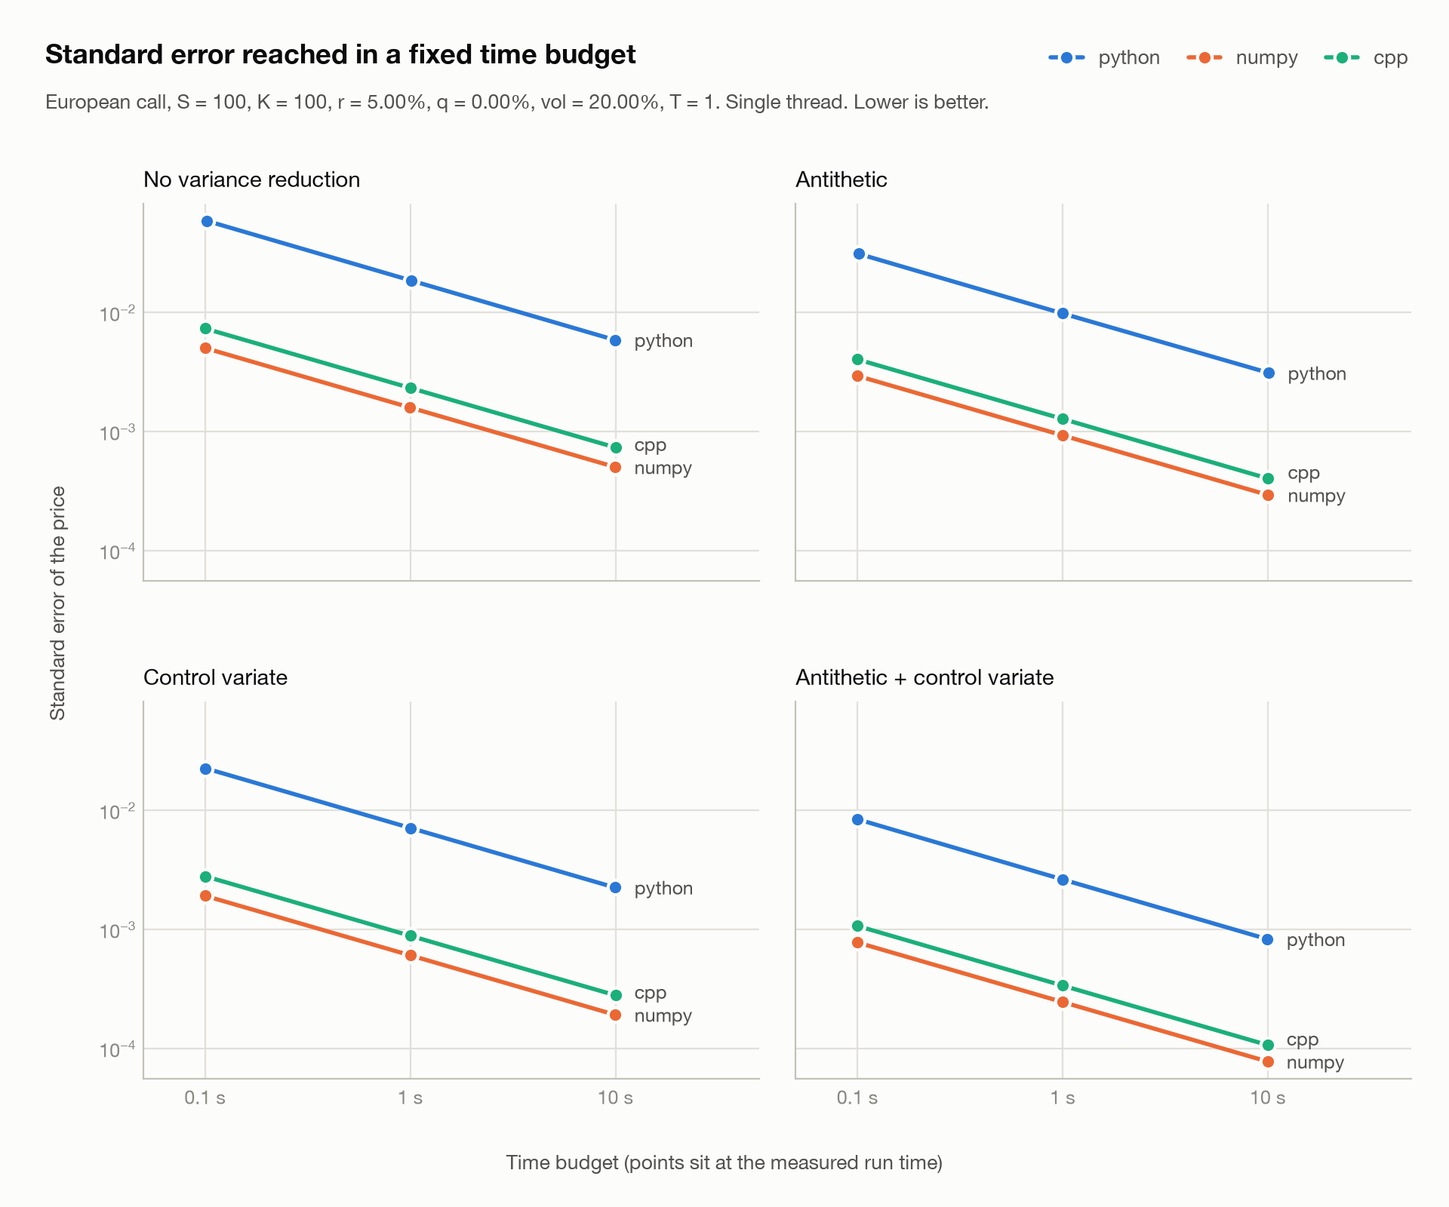
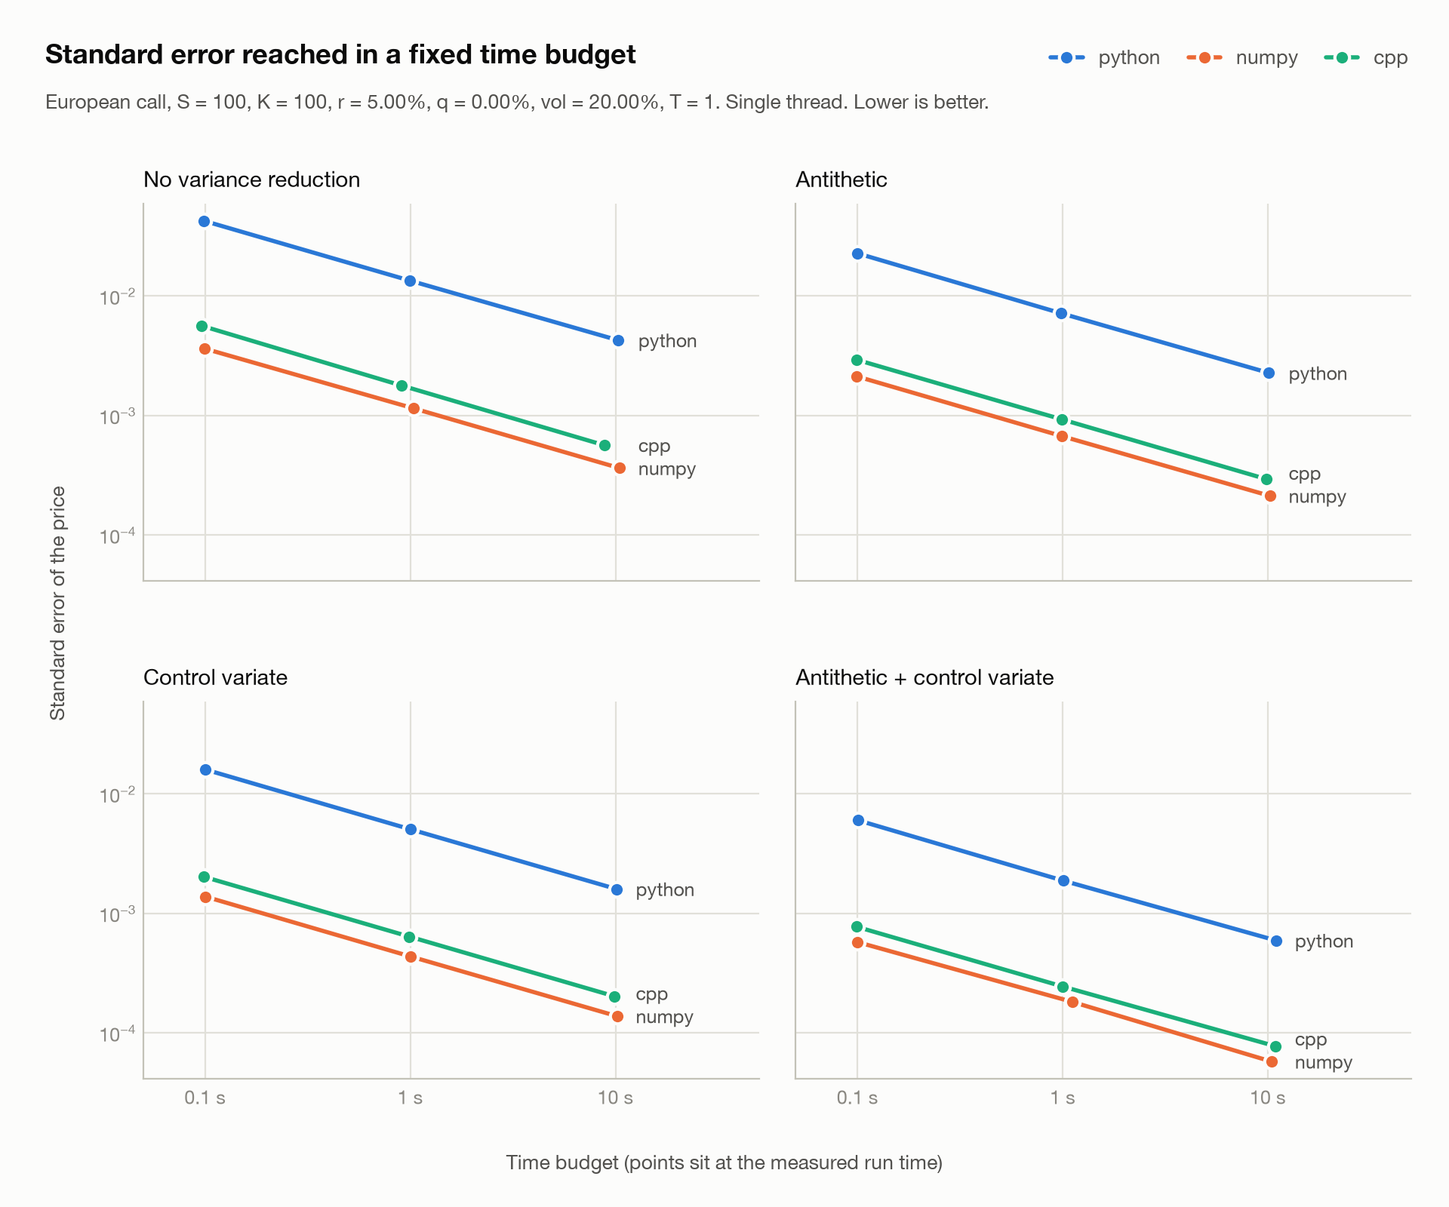
Re-record the back-end comparison with Low Power Mode off.
Same command as before, at commit 2e9dde2, on battery with Low Power Mode off.
Absolute speeds are about twice the Low Power Mode figures; the ratios between
back ends are unchanged. At 10^7 paths C++ is 64.2x faster than pure Python
and 0.47x the speed of NumPy. Another program was active on the machine during
the run, so some time-budget runs landed up to 12% off their budget; the
report shows the measured time of each.

diff --git a/benchmarks/RESULTS.md b/benchmarks/RESULTS.md
@@ -8,7 +8,7 @@ Every number in this file was measured on the machine described below by the com
 python -m derivkit compare --paths 1e5 1e6 1e7 --vr all --budgets 0.1 1 10 --report benchmarks/RESULTS.md --plot benchmarks/accuracy_vs_time.png
 ```
 
-Run finished 2026-10-04 22:23 BST. The environment below was recorded when the run started.
+Run finished 2026-10-04 23:34 BST. The environment below was recorded when the run started.
 
 | Item | Value |
 | --- | --- |
@@ -18,8 +18,8 @@ Run finished 2026-10-04 22:23 BST. The environment below was recorded when the r
 | NumPy | 2.5.3 (generator PCG64, BLAS accelerate) |
 | C++ compiler | Apple clang 21.0.0 (clang-2100.1.1.101) |
 | C++ build | Release, flags `-O3 -DNDEBUG -std=c++20 -ffp-contract=off`, pybind11 3.1.0 |
-| Power | battery, Low Power Mode on |
-| derivkit | 2.0.0 (commit 61f073a) |
+| Power | battery, Low Power Mode off |
+| derivkit | 2.0.0 (commit 2e9dde2) |
 
 ## What was priced
 
@@ -43,76 +43,76 @@ European call, S = 100, K = 100, r = 5.00%, q = 0.00%, vol = 20.00%, T = 1. Blac
 
 | Variance reduction | Time budget | python | numpy | cpp |
 | --- | --- | ---: | ---: | ---: |
-| No variance reduction | 0.1 s | 5.87 x 10^-2 | 5.02 x 10^-3 | 7.32 x 10^-3 |
-| No variance reduction | 1 s | 1.85 x 10^-2 | 1.59 x 10^-3 | 2.32 x 10^-3 |
-| No variance reduction | 10 s | 5.87 x 10^-3 | 5.02 x 10^-4 | 7.32 x 10^-4 |
-| Antithetic | 0.1 s | 3.10 x 10^-2 | 2.93 x 10^-3 | 4.03 x 10^-3 |
-| Antithetic | 1 s | 9.80 x 10^-3 | 9.25 x 10^-4 | 1.27 x 10^-3 |
-| Antithetic | 10 s | 3.10 x 10^-3 | 2.93 x 10^-4 | 4.03 x 10^-4 |
-| Control variate | 0.1 s | 2.25 x 10^-2 | 1.91 x 10^-3 | 2.79 x 10^-3 |
-| Control variate | 1 s | 7.09 x 10^-3 | 6.05 x 10^-4 | 8.82 x 10^-4 |
-| Control variate | 10 s | 2.24 x 10^-3 | 1.91 x 10^-4 | 2.79 x 10^-4 |
-| Antithetic + control variate | 0.1 s | 8.39 x 10^-3 | 7.74 x 10^-4 | 1.07 x 10^-3 |
-| Antithetic + control variate | 1 s | 2.62 x 10^-3 | 2.45 x 10^-4 | 3.37 x 10^-4 |
-| Antithetic + control variate | 10 s | 8.27 x 10^-4 | 7.74 x 10^-5 | 1.06 x 10^-4 |
+| No variance reduction | 0.1 s | 4.24 x 10^-2 | 3.62 x 10^-3 | 5.62 x 10^-3 |
+| No variance reduction | 1 s | 1.34 x 10^-2 | 1.14 x 10^-3 | 1.78 x 10^-3 |
+| No variance reduction | 10 s | 4.25 x 10^-3 | 3.62 x 10^-4 | 5.62 x 10^-4 |
+| Antithetic | 0.1 s | 2.27 x 10^-2 | 2.12 x 10^-3 | 2.92 x 10^-3 |
+| Antithetic | 1 s | 7.15 x 10^-3 | 6.70 x 10^-4 | 9.24 x 10^-4 |
+| Antithetic | 10 s | 2.26 x 10^-3 | 2.12 x 10^-4 | 2.92 x 10^-4 |
+| Control variate | 0.1 s | 1.60 x 10^-2 | 1.37 x 10^-3 | 2.02 x 10^-3 |
+| Control variate | 1 s | 5.04 x 10^-3 | 4.35 x 10^-4 | 6.38 x 10^-4 |
+| Control variate | 10 s | 1.59 x 10^-3 | 1.37 x 10^-4 | 2.02 x 10^-4 |
+| Antithetic + control variate | 0.1 s | 6.00 x 10^-3 | 5.73 x 10^-4 | 7.71 x 10^-4 |
+| Antithetic + control variate | 1 s | 1.87 x 10^-3 | 1.81 x 10^-4 | 2.44 x 10^-4 |
+| Antithetic + control variate | 10 s | 5.91 x 10^-4 | 5.73 x 10^-5 | 7.70 x 10^-5 |
 
 **Detail of each budget run**
 
 | Variance reduction | Time budget | Back end | Paths | Measured time (s) | Price | Std. error | Abs. error vs BS |
 | --- | --- | --- | ---: | ---: | ---: | ---: | ---: |
-| No variance reduction | 0.1 s | python | 62,995 | 0.1017 | 10.412257 | 5.87 x 10^-2 | 3.83 x 10^-2 |
-| No variance reduction | 0.1 s | numpy | 8,613,520 | 0.09989 | 10.455337 | 5.02 x 10^-3 | 4.75 x 10^-3 |
-| No variance reduction | 0.1 s | cpp | 4,039,782 | 0.09977 | 10.451177 | 7.32 x 10^-3 | 5.93 x 10^-4 |
-| No variance reduction | 1 s | python | 629,952 | 1.007 | 10.441908 | 1.85 x 10^-2 | 8.68 x 10^-3 |
-| No variance reduction | 1 s | numpy | 86,135,209 | 0.9983 | 10.452254 | 1.59 x 10^-3 | 1.67 x 10^-3 |
-| No variance reduction | 1 s | cpp | 40,397,820 | 1.001 | 10.446760 | 2.32 x 10^-3 | 3.82 x 10^-3 |
-| No variance reduction | 10 s | python | 6,299,527 | 9.919 | 10.454535 | 5.87 x 10^-3 | 3.95 x 10^-3 |
-| No variance reduction | 10 s | numpy | 861,352,093 | 9.982 | 10.450510 | 5.02 x 10^-4 | 7.34 x 10^-5 |
-| No variance reduction | 10 s | cpp | 403,978,204 | 10.01 | 10.449696 | 7.32 x 10^-4 | 8.87 x 10^-4 |
-| Antithetic | 0.1 s | python | 56,413 | 0.1013 | 10.401623 | 3.10 x 10^-2 | 4.90 x 10^-2 |
-| Antithetic | 0.1 s | numpy | 6,318,333 | 0.1001 | 10.445998 | 2.93 x 10^-3 | 4.59 x 10^-3 |
-| Antithetic | 0.1 s | cpp | 3,330,337 | 0.09962 | 10.449060 | 4.03 x 10^-3 | 1.52 x 10^-3 |
-| Antithetic | 1 s | python | 564,132 | 0.996 | 10.453937 | 9.80 x 10^-3 | 3.35 x 10^-3 |
-| Antithetic | 1 s | numpy | 63,183,336 | 1.001 | 10.450411 | 9.25 x 10^-4 | 1.72 x 10^-4 |
-| Antithetic | 1 s | cpp | 33,303,376 | 0.9967 | 10.450877 | 1.27 x 10^-3 | 2.94 x 10^-4 |
-| Antithetic | 10 s | python | 5,641,323 | 10.13 | 10.449242 | 3.10 x 10^-3 | 1.34 x 10^-3 |
-| Antithetic | 10 s | numpy | 631,833,360 | 9.999 | 10.450834 | 2.93 x 10^-4 | 2.50 x 10^-4 |
-| Antithetic | 10 s | cpp | 333,033,769 | 9.968 | 10.450676 | 4.03 x 10^-4 | 9.28 x 10^-5 |
-| Control variate | 0.1 s | python | 62,559 | 0.1006 | 10.423432 | 2.25 x 10^-2 | 2.72 x 10^-2 |
-| Control variate | 0.1 s | numpy | 8,612,514 | 0.09988 | 10.447197 | 1.91 x 10^-3 | 3.39 x 10^-3 |
-| Control variate | 0.1 s | cpp | 4,048,441 | 0.09998 | 10.448218 | 2.79 x 10^-3 | 2.37 x 10^-3 |
-| Control variate | 1 s | python | 625,590 | 1.002 | 10.447822 | 7.09 x 10^-3 | 2.76 x 10^-3 |
-| Control variate | 1 s | numpy | 86,125,143 | 0.9986 | 10.450661 | 6.05 x 10^-4 | 7.70 x 10^-5 |
-| Control variate | 1 s | cpp | 40,484,419 | 1 | 10.450992 | 8.82 x 10^-4 | 4.08 x 10^-4 |
-| Control variate | 10 s | python | 6,255,900 | 9.923 | 10.449588 | 2.24 x 10^-3 | 9.96 x 10^-4 |
-| Control variate | 10 s | numpy | 861,251,437 | 9.986 | 10.450727 | 1.91 x 10^-4 | 1.44 x 10^-4 |
-| Control variate | 10 s | cpp | 404,844,195 | 10.02 | 10.450590 | 2.79 x 10^-4 | 6.62 x 10^-6 |
-| Antithetic + control variate | 0.1 s | python | 55,337 | 0.1001 | 10.433109 | 8.39 x 10^-3 | 1.75 x 10^-2 |
-| Antithetic + control variate | 0.1 s | numpy | 6,314,150 | 0.1 | 10.449176 | 7.74 x 10^-4 | 1.41 x 10^-3 |
-| Antithetic + control variate | 0.1 s | cpp | 3,334,340 | 0.09998 | 10.448682 | 1.07 x 10^-3 | 1.90 x 10^-3 |
-| Antithetic + control variate | 1 s | python | 553,376 | 0.9972 | 10.449029 | 2.62 x 10^-3 | 1.55 x 10^-3 |
-| Antithetic + control variate | 1 s | numpy | 63,141,508 | 0.9999 | 10.450316 | 2.45 x 10^-4 | 2.67 x 10^-4 |
-| Antithetic + control variate | 1 s | cpp | 33,343,402 | 0.998 | 10.450247 | 3.37 x 10^-4 | 3.37 x 10^-4 |
-| Antithetic + control variate | 10 s | python | 5,533,764 | 9.913 | 10.449138 | 8.27 x 10^-4 | 1.45 x 10^-3 |
-| Antithetic + control variate | 10 s | numpy | 631,415,089 | 9.995 | 10.450552 | 7.74 x 10^-5 | 3.11 x 10^-5 |
-| Antithetic + control variate | 10 s | cpp | 333,434,020 | 9.987 | 10.450508 | 1.06 x 10^-4 | 7.55 x 10^-5 |
+| No variance reduction | 0.1 s | python | 119,948 | 0.0986 | 10.399676 | 4.24 x 10^-2 | 5.09 x 10^-2 |
+| No variance reduction | 0.1 s | numpy | 16,560,119 | 0.09935 | 10.452729 | 3.62 x 10^-3 | 2.15 x 10^-3 |
+| No variance reduction | 0.1 s | cpp | 6,864,302 | 0.09603 | 10.453208 | 5.62 x 10^-3 | 2.62 x 10^-3 |
+| No variance reduction | 1 s | python | 1,199,487 | 0.9906 | 10.448566 | 1.34 x 10^-2 | 2.02 x 10^-3 |
+| No variance reduction | 1 s | numpy | 165,601,193 | 1.037 | 10.452147 | 1.14 x 10^-3 | 1.56 x 10^-3 |
+| No variance reduction | 1 s | cpp | 68,643,022 | 0.9053 | 10.449965 | 1.78 x 10^-3 | 6.19 x 10^-4 |
+| No variance reduction | 10 s | python | 11,994,871 | 10.3 | 10.452493 | 4.25 x 10^-3 | 1.91 x 10^-3 |
+| No variance reduction | 10 s | numpy | 1,656,011,938 | 10.46 | 10.450845 | 3.62 x 10^-4 | 2.62 x 10^-4 |
+| No variance reduction | 10 s | cpp | 686,430,226 | 8.829 | 10.450370 | 5.62 x 10^-4 | 2.14 x 10^-4 |
+| Antithetic | 0.1 s | python | 105,752 | 0.09969 | 10.428816 | 2.27 x 10^-2 | 2.18 x 10^-2 |
+| Antithetic | 0.1 s | numpy | 12,052,982 | 0.09918 | 10.448795 | 2.12 x 10^-3 | 1.79 x 10^-3 |
+| Antithetic | 0.1 s | cpp | 6,334,262 | 0.09865 | 10.450812 | 2.92 x 10^-3 | 2.28 x 10^-4 |
+| Antithetic | 1 s | python | 1,057,529 | 0.9796 | 10.457764 | 7.15 x 10^-3 | 7.18 x 10^-3 |
+| Antithetic | 1 s | numpy | 120,529,828 | 0.99 | 10.451347 | 6.70 x 10^-4 | 7.63 x 10^-4 |
+| Antithetic | 1 s | cpp | 63,342,627 | 0.9919 | 10.451298 | 9.24 x 10^-4 | 7.15 x 10^-4 |
+| Antithetic | 10 s | python | 10,575,298 | 10.13 | 10.452796 | 2.26 x 10^-3 | 2.21 x 10^-3 |
+| Antithetic | 10 s | numpy | 1,205,298,280 | 10.23 | 10.450642 | 2.12 x 10^-4 | 5.82 x 10^-5 |
+| Antithetic | 10 s | cpp | 633,426,274 | 9.857 | 10.450718 | 2.92 x 10^-4 | 1.34 x 10^-4 |
+| Control variate | 0.1 s | python | 124,154 | 0.09978 | 10.438639 | 1.60 x 10^-2 | 1.19 x 10^-2 |
+| Control variate | 0.1 s | numpy | 16,651,407 | 0.1005 | 10.448099 | 1.37 x 10^-3 | 2.48 x 10^-3 |
+| Control variate | 0.1 s | cpp | 7,747,819 | 0.09865 | 10.450824 | 2.02 x 10^-3 | 2.40 x 10^-4 |
+| Control variate | 1 s | python | 1,241,544 | 1.002 | 10.452951 | 5.04 x 10^-3 | 2.37 x 10^-3 |
+| Control variate | 1 s | numpy | 166,514,073 | 1 | 10.450607 | 4.35 x 10^-4 | 2.30 x 10^-5 |
+| Control variate | 1 s | cpp | 77,478,195 | 0.9878 | 10.451389 | 6.38 x 10^-4 | 8.06 x 10^-4 |
+| Control variate | 10 s | python | 12,415,444 | 10.12 | 10.451041 | 1.59 x 10^-3 | 4.57 x 10^-4 |
+| Control variate | 10 s | numpy | 1,665,140,739 | 10.17 | 10.450540 | 1.37 x 10^-4 | 4.40 x 10^-5 |
+| Control variate | 10 s | cpp | 774,781,958 | 9.901 | 10.450738 | 2.02 x 10^-4 | 1.55 x 10^-4 |
+| Antithetic + control variate | 0.1 s | python | 108,361 | 0.1002 | 10.436833 | 6.00 x 10^-3 | 1.38 x 10^-2 |
+| Antithetic + control variate | 0.1 s | numpy | 11,521,644 | 0.09984 | 10.449799 | 5.73 x 10^-4 | 7.84 x 10^-4 |
+| Antithetic + control variate | 0.1 s | cpp | 6,369,427 | 0.09871 | 10.449101 | 7.71 x 10^-4 | 1.48 x 10^-3 |
+| Antithetic + control variate | 1 s | python | 1,083,616 | 1.007 | 10.451598 | 1.87 x 10^-3 | 1.01 x 10^-3 |
+| Antithetic + control variate | 1 s | numpy | 115,216,440 | 1.112 | 10.450443 | 1.81 x 10^-4 | 1.41 x 10^-4 |
+| Antithetic + control variate | 1 s | cpp | 63,694,278 | 0.9987 | 10.450381 | 2.44 x 10^-4 | 2.03 x 10^-4 |
+| Antithetic + control variate | 10 s | python | 10,836,166 | 10.97 | 10.449814 | 5.91 x 10^-4 | 7.70 x 10^-4 |
+| Antithetic + control variate | 10 s | numpy | 1,152,164,404 | 10.44 | 10.450585 | 5.73 x 10^-5 | 1.41 x 10^-6 |
+| Antithetic + control variate | 10 s | cpp | 636,942,788 | 10.89 | 10.450595 | 7.70 x 10^-5 | 1.14 x 10^-5 |
 
 **Calibration behind the budgets**
 
 | Variance reduction | Back end | Calibration paths | Run time, median (s) | min (s) | max (s) | Paths / s |
 | --- | --- | ---: | ---: | ---: | ---: | ---: |
-| No variance reduction | python | 126,347 | 0.2006 | 0.1983 | 0.2115 | 0.63 M |
-| No variance reduction | numpy | 7,712,701 | 0.08954 | 0.08934 | 0.08968 | 86.14 M |
-| No variance reduction | cpp | 7,265,580 | 0.1799 | 0.1794 | 0.1803 | 40.40 M |
-| Antithetic | python | 111,482 | 0.1976 | 0.1968 | 0.1991 | 0.56 M |
-| Antithetic | numpy | 6,875,321 | 0.1088 | 0.1087 | 0.109 | 63.18 M |
-| Antithetic | cpp | 5,896,800 | 0.1771 | 0.1765 | 0.1788 | 33.30 M |
-| Control variate | python | 125,854 | 0.2012 | 0.2003 | 0.2026 | 0.63 M |
-| Control variate | numpy | 8,231,163 | 0.09557 | 0.09522 | 0.09642 | 86.13 M |
-| Control variate | cpp | 6,676,871 | 0.1649 | 0.1649 | 0.1652 | 40.48 M |
-| Antithetic + control variate | python | 107,996 | 0.1952 | 0.1941 | 0.1965 | 0.55 M |
-| Antithetic + control variate | numpy | 6,933,406 | 0.1098 | 0.1097 | 0.1101 | 63.14 M |
-| Antithetic + control variate | cpp | 5,895,722 | 0.1768 | 0.1763 | 0.1772 | 33.34 M |
+| No variance reduction | python | 245,588 | 0.2047 | 0.2004 | 0.2296 | 1.20 M |
+| No variance reduction | numpy | 33,165,924 | 0.2003 | 0.199 | 0.2046 | 165.60 M |
+| No variance reduction | cpp | 9,662,701 | 0.1408 | 0.1355 | 0.1618 | 68.64 M |
+| Antithetic | python | 215,513 | 0.2038 | 0.201 | 0.23 | 1.06 M |
+| Antithetic | numpy | 22,499,313 | 0.1867 | 0.1862 | 0.1878 | 120.53 M |
+| Antithetic | cpp | 11,967,766 | 0.1889 | 0.188 | 0.1917 | 63.34 M |
+| Control variate | python | 246,640 | 0.1987 | 0.1982 | 0.1999 | 1.24 M |
+| Control variate | numpy | 33,265,474 | 0.1998 | 0.1995 | 0.2002 | 166.51 M |
+| Control variate | cpp | 15,173,756 | 0.1958 | 0.1934 | 0.1973 | 77.48 M |
+| Antithetic + control variate | python | 215,584 | 0.1989 | 0.1983 | 0.2018 | 1.08 M |
+| Antithetic + control variate | numpy | 22,574,458 | 0.1959 | 0.1945 | 0.1994 | 115.22 M |
+| Antithetic + control variate | cpp | 12,420,878 | 0.195 | 0.1922 | 0.1971 | 63.69 M |
 
 ## Fixed path counts
 
@@ -120,71 +120,71 @@ European call, S = 100, K = 100, r = 5.00%, q = 0.00%, vol = 20.00%, T = 1. Blac
 
 | Back end | Paths | Price | Std. error | Abs. error vs BS | Run time, median (s) | min (s) | max (s) | Paths / s | CPU / wall |
 | --- | ---: | ---: | ---: | ---: | ---: | ---: | ---: | ---: | ---: |
-| python | 100,000 | 10.386439 | 4.64 x 10^-2 | 6.41 x 10^-2 | 0.1613 | 0.1591 | 0.1636 | 0.62 M | 1.00 |
-| numpy | 100,000 | 10.357758 | 4.64 x 10^-2 | 9.28 x 10^-2 | 0.001209 | 0.001192 | 0.001237 | 82.70 M | 1.00 |
-| cpp | 100,000 | 10.386439 | 4.64 x 10^-2 | 6.41 x 10^-2 | 0.002398 | 0.002352 | 0.002562 | 41.70 M | 1.00 |
-| python | 1,000,000 | 10.448058 | 1.47 x 10^-2 | 2.53 x 10^-3 | 1.6 | 1.59 | 1.609 | 0.63 M | 1.00 |
-| numpy | 1,000,000 | 10.427599 | 1.47 x 10^-2 | 2.30 x 10^-2 | 0.01171 | 0.01166 | 0.01217 | 85.40 M | 1.00 |
-| cpp | 1,000,000 | 10.448058 | 1.47 x 10^-2 | 2.53 x 10^-3 | 0.0249 | 0.02485 | 0.02527 | 40.17 M | 1.00 |
-| python | 10,000,000 | 10.454013 | 4.66 x 10^-3 | 3.43 x 10^-3 | 15.97 | 15.88 | 16.06 | 0.63 M | 1.00 |
-| numpy | 10,000,000 | 10.455593 | 4.66 x 10^-3 | 5.01 x 10^-3 | 0.1174 | 0.1165 | 0.1237 | 85.19 M | 1.00 |
-| cpp | 10,000,000 | 10.454013 | 4.66 x 10^-3 | 3.43 x 10^-3 | 0.2505 | 0.2501 | 0.2514 | 39.91 M | 1.00 |
+| python | 100,000 | 10.386439 | 4.64 x 10^-2 | 6.41 x 10^-2 | 0.08424 | 0.08326 | 0.08508 | 1.19 M | 1.00 |
+| numpy | 100,000 | 10.357758 | 4.64 x 10^-2 | 9.28 x 10^-2 | 0.000628 | 0.0006214 | 0.0006669 | 159.24 M | 1.00 |
+| cpp | 100,000 | 10.386439 | 4.64 x 10^-2 | 6.41 x 10^-2 | 0.001234 | 0.001204 | 0.001263 | 81.02 M | 1.00 |
+| python | 1,000,000 | 10.448058 | 1.47 x 10^-2 | 2.53 x 10^-3 | 0.836 | 0.8292 | 0.8399 | 1.20 M | 1.00 |
+| numpy | 1,000,000 | 10.427599 | 1.47 x 10^-2 | 2.30 x 10^-2 | 0.006093 | 0.006003 | 0.00618 | 164.13 M | 1.00 |
+| cpp | 1,000,000 | 10.448058 | 1.47 x 10^-2 | 2.53 x 10^-3 | 0.01278 | 0.01271 | 0.01297 | 78.27 M | 1.00 |
+| python | 10,000,000 | 10.454013 | 4.66 x 10^-3 | 3.43 x 10^-3 | 8.308 | 8.27 | 8.376 | 1.20 M | 1.00 |
+| numpy | 10,000,000 | 10.455593 | 4.66 x 10^-3 | 5.01 x 10^-3 | 0.0603 | 0.06017 | 0.06084 | 165.84 M | 1.00 |
+| cpp | 10,000,000 | 10.454013 | 4.66 x 10^-3 | 3.43 x 10^-3 | 0.1293 | 0.1291 | 0.1337 | 77.31 M | 1.00 |
 
 **Antithetic**
 
 | Back end | Paths | Price | Std. error | Abs. error vs BS | Run time, median (s) | min (s) | max (s) | Paths / s | CPU / wall |
 | --- | ---: | ---: | ---: | ---: | ---: | ---: | ---: | ---: | ---: |
-| python | 100,000 | 10.424722 | 2.33 x 10^-2 | 2.59 x 10^-2 | 0.1817 | 0.1812 | 0.1853 | 0.55 M | 1.00 |
-| numpy | 100,000 | 10.412200 | 2.32 x 10^-2 | 3.84 x 10^-2 | 0.001623 | 0.001616 | 0.001639 | 61.62 M | 1.00 |
-| cpp | 100,000 | 10.424722 | 2.33 x 10^-2 | 2.59 x 10^-2 | 0.002925 | 0.002873 | 0.00297 | 34.19 M | 1.00 |
-| python | 1,000,000 | 10.457104 | 7.36 x 10^-3 | 6.52 x 10^-3 | 1.811 | 1.806 | 1.83 | 0.55 M | 1.00 |
-| numpy | 1,000,000 | 10.429434 | 7.35 x 10^-3 | 2.11 x 10^-2 | 0.01593 | 0.01589 | 0.01644 | 62.78 M | 1.00 |
-| cpp | 1,000,000 | 10.457104 | 7.36 x 10^-3 | 6.52 x 10^-3 | 0.03009 | 0.02987 | 0.03026 | 33.24 M | 1.00 |
-| python | 10,000,000 | 10.452261 | 2.33 x 10^-3 | 1.68 x 10^-3 | 18.16 | 18.08 | 18.46 | 0.55 M | 1.00 |
-| numpy | 10,000,000 | 10.447247 | 2.32 x 10^-3 | 3.34 x 10^-3 | 0.1598 | 0.1592 | 0.1669 | 62.59 M | 0.99 |
-| cpp | 10,000,000 | 10.452261 | 2.33 x 10^-3 | 1.68 x 10^-3 | 0.3016 | 0.3008 | 0.3035 | 33.16 M | 1.00 |
+| python | 100,000 | 10.424722 | 2.33 x 10^-2 | 2.59 x 10^-2 | 0.09519 | 0.0941 | 0.09578 | 1.05 M | 1.00 |
+| numpy | 100,000 | 10.412200 | 2.32 x 10^-2 | 3.84 x 10^-2 | 0.0008622 | 0.0008371 | 0.0009339 | 115.99 M | 1.00 |
+| cpp | 100,000 | 10.424722 | 2.33 x 10^-2 | 2.59 x 10^-2 | 0.001545 | 0.001494 | 0.001567 | 64.71 M | 1.00 |
+| python | 1,000,000 | 10.457104 | 7.36 x 10^-3 | 6.52 x 10^-3 | 0.9426 | 0.9331 | 0.9452 | 1.06 M | 1.00 |
+| numpy | 1,000,000 | 10.429434 | 7.35 x 10^-3 | 2.11 x 10^-2 | 0.008262 | 0.008215 | 0.00831 | 121.03 M | 1.00 |
+| cpp | 1,000,000 | 10.457104 | 7.36 x 10^-3 | 6.52 x 10^-3 | 0.01548 | 0.0154 | 0.0157 | 64.58 M | 1.00 |
+| python | 10,000,000 | 10.452261 | 2.33 x 10^-3 | 1.68 x 10^-3 | 9.268 | 9.228 | 9.396 | 1.08 M | 1.00 |
+| numpy | 10,000,000 | 10.447247 | 2.32 x 10^-3 | 3.34 x 10^-3 | 0.08226 | 0.08213 | 0.08277 | 121.56 M | 1.00 |
+| cpp | 10,000,000 | 10.452261 | 2.33 x 10^-3 | 1.68 x 10^-3 | 0.1551 | 0.155 | 0.1694 | 64.48 M | 0.99 |
 
 **Control variate**
 
 | Back end | Paths | Price | Std. error | Abs. error vs BS | Run time, median (s) | min (s) | max (s) | Paths / s | CPU / wall |
 | --- | ---: | ---: | ---: | ---: | ---: | ---: | ---: | ---: | ---: |
-| python | 100,000 | 10.430875 | 1.78 x 10^-2 | 1.97 x 10^-2 | 0.1591 | 0.1566 | 0.1626 | 0.63 M | 1.00 |
-| numpy | 100,000 | 10.427545 | 1.77 x 10^-2 | 2.30 x 10^-2 | 0.001205 | 0.001191 | 0.001253 | 82.99 M | 1.00 |
-| cpp | 100,000 | 10.430875 | 1.78 x 10^-2 | 1.97 x 10^-2 | 0.002429 | 0.002357 | 0.002612 | 41.17 M | 1.00 |
-| python | 1,000,000 | 10.455303 | 5.61 x 10^-3 | 4.72 x 10^-3 | 1.601 | 1.579 | 1.66 | 0.62 M | 1.00 |
-| numpy | 1,000,000 | 10.434512 | 5.61 x 10^-3 | 1.61 x 10^-2 | 0.01167 | 0.01162 | 0.01179 | 85.71 M | 1.00 |
-| cpp | 1,000,000 | 10.455303 | 5.61 x 10^-3 | 4.72 x 10^-3 | 0.02474 | 0.02471 | 0.02502 | 40.42 M | 1.00 |
-| python | 10,000,000 | 10.451439 | 1.77 x 10^-3 | 8.55 x 10^-4 | 15.77 | 15.74 | 15.89 | 0.63 M | 1.00 |
-| numpy | 10,000,000 | 10.447184 | 1.77 x 10^-3 | 3.40 x 10^-3 | 0.1162 | 0.1161 | 0.1162 | 86.07 M | 1.00 |
-| cpp | 10,000,000 | 10.451439 | 1.77 x 10^-3 | 8.55 x 10^-4 | 0.247 | 0.2467 | 0.2476 | 40.48 M | 1.00 |
+| python | 100,000 | 10.430875 | 1.78 x 10^-2 | 1.97 x 10^-2 | 0.08227 | 0.08173 | 0.08324 | 1.22 M | 1.00 |
+| numpy | 100,000 | 10.427545 | 1.77 x 10^-2 | 2.30 x 10^-2 | 0.0006209 | 0.0006175 | 0.0006703 | 161.06 M | 1.00 |
+| cpp | 100,000 | 10.430875 | 1.78 x 10^-2 | 1.97 x 10^-2 | 0.0012 | 0.001186 | 0.001286 | 83.32 M | 1.00 |
+| python | 1,000,000 | 10.455303 | 5.61 x 10^-3 | 4.72 x 10^-3 | 0.8167 | 0.8116 | 0.9691 | 1.22 M | 0.99 |
+| numpy | 1,000,000 | 10.434512 | 5.61 x 10^-3 | 1.61 x 10^-2 | 0.006058 | 0.006029 | 0.006196 | 165.07 M | 1.00 |
+| cpp | 1,000,000 | 10.455303 | 5.61 x 10^-3 | 4.72 x 10^-3 | 0.01278 | 0.01268 | 0.01288 | 78.26 M | 1.00 |
+| python | 10,000,000 | 10.451439 | 1.77 x 10^-3 | 8.55 x 10^-4 | 8.175 | 8.144 | 8.585 | 1.22 M | 1.00 |
+| numpy | 10,000,000 | 10.447184 | 1.77 x 10^-3 | 3.40 x 10^-3 | 0.06061 | 0.06013 | 0.06101 | 164.98 M | 1.00 |
+| cpp | 10,000,000 | 10.451439 | 1.77 x 10^-3 | 8.55 x 10^-4 | 0.1286 | 0.1281 | 0.129 | 77.77 M | 1.00 |
 
 **Antithetic + control variate**
 
 | Back end | Paths | Price | Std. error | Abs. error vs BS | Run time, median (s) | min (s) | max (s) | Paths / s | CPU / wall |
 | --- | ---: | ---: | ---: | ---: | ---: | ---: | ---: | ---: | ---: |
-| python | 100,000 | 10.436425 | 6.25 x 10^-3 | 1.42 x 10^-2 | 0.1794 | 0.1783 | 0.1818 | 0.56 M | 1.00 |
-| numpy | 100,000 | 10.446439 | 6.17 x 10^-3 | 4.14 x 10^-3 | 0.001643 | 0.001623 | 0.001698 | 60.87 M | 1.00 |
-| cpp | 100,000 | 10.436425 | 6.25 x 10^-3 | 1.42 x 10^-2 | 0.002896 | 0.002873 | 0.002984 | 34.53 M | 1.00 |
-| python | 1,000,000 | 10.451274 | 1.95 x 10^-3 | 6.90 x 10^-4 | 1.806 | 1.777 | 1.812 | 0.55 M | 1.00 |
-| numpy | 1,000,000 | 10.444566 | 1.95 x 10^-3 | 6.02 x 10^-3 | 0.01591 | 0.01587 | 0.01615 | 62.84 M | 1.00 |
-| cpp | 1,000,000 | 10.451274 | 1.95 x 10^-3 | 6.90 x 10^-4 | 0.03003 | 0.02991 | 0.03013 | 33.30 M | 1.00 |
-| python | 10,000,000 | 10.449937 | 6.15 x 10^-4 | 6.46 x 10^-4 | 18.31 | 17.88 | 18.41 | 0.55 M | 1.00 |
-| numpy | 10,000,000 | 10.449700 | 6.15 x 10^-4 | 8.84 x 10^-4 | 0.1585 | 0.1582 | 0.1592 | 63.09 M | 1.00 |
-| cpp | 10,000,000 | 10.449937 | 6.15 x 10^-4 | 6.46 x 10^-4 | 0.2998 | 0.2993 | 0.3003 | 33.36 M | 1.00 |
+| python | 100,000 | 10.436425 | 6.25 x 10^-3 | 1.42 x 10^-2 | 0.09341 | 0.09219 | 0.09453 | 1.07 M | 1.00 |
+| numpy | 100,000 | 10.446439 | 6.17 x 10^-3 | 4.14 x 10^-3 | 0.0008754 | 0.0008457 | 0.0009967 | 114.24 M | 0.99 |
+| cpp | 100,000 | 10.436425 | 6.25 x 10^-3 | 1.42 x 10^-2 | 0.001502 | 0.001459 | 0.001583 | 66.58 M | 1.00 |
+| python | 1,000,000 | 10.451274 | 1.95 x 10^-3 | 6.90 x 10^-4 | 0.9458 | 0.9357 | 0.9658 | 1.06 M | 1.00 |
+| numpy | 1,000,000 | 10.444566 | 1.95 x 10^-3 | 6.02 x 10^-3 | 0.008361 | 0.008265 | 0.008578 | 119.60 M | 1.00 |
+| cpp | 1,000,000 | 10.451274 | 1.95 x 10^-3 | 6.90 x 10^-4 | 0.0155 | 0.01545 | 0.01562 | 64.51 M | 1.00 |
+| python | 10,000,000 | 10.449937 | 6.15 x 10^-4 | 6.46 x 10^-4 | 9.593 | 9.489 | 9.96 | 1.04 M | 0.99 |
+| numpy | 10,000,000 | 10.449700 | 6.15 x 10^-4 | 8.84 x 10^-4 | 0.08281 | 0.08251 | 0.08379 | 120.76 M | 1.00 |
+| cpp | 10,000,000 | 10.449937 | 6.15 x 10^-4 | 6.46 x 10^-4 | 0.1557 | 0.1549 | 0.1563 | 64.22 M | 1.00 |
 
 **Speed ratios** (same paths; above 1 means the first back end is faster)
 
 | Variance reduction | Paths | cpp vs numpy | cpp vs python | numpy vs python |
 | --- | ---: | ---: | ---: | ---: |
-| No variance reduction | 100,000 | 0.50x | 67.3x | 133x |
-| No variance reduction | 1,000,000 | 0.47x | 64.3x | 137x |
-| No variance reduction | 10,000,000 | 0.47x | 63.8x | 136x |
-| Antithetic | 100,000 | 0.55x | 62.1x | 112x |
-| Antithetic | 1,000,000 | 0.53x | 60.2x | 114x |
-| Antithetic | 10,000,000 | 0.53x | 60.2x | 114x |
-| Control variate | 100,000 | 0.50x | 65.5x | 132x |
-| Control variate | 1,000,000 | 0.47x | 64.7x | 137x |
-| Control variate | 10,000,000 | 0.47x | 63.8x | 136x |
-| Antithetic + control variate | 100,000 | 0.57x | 62.0x | 109x |
-| Antithetic + control variate | 1,000,000 | 0.53x | 60.2x | 113x |
-| Antithetic + control variate | 10,000,000 | 0.53x | 61.1x | 115x |
+| No variance reduction | 100,000 | 0.51x | 68.3x | 134x |
+| No variance reduction | 1,000,000 | 0.48x | 65.4x | 137x |
+| No variance reduction | 10,000,000 | 0.47x | 64.2x | 138x |
+| Antithetic | 100,000 | 0.56x | 61.6x | 110x |
+| Antithetic | 1,000,000 | 0.53x | 60.9x | 114x |
+| Antithetic | 10,000,000 | 0.53x | 59.8x | 113x |
+| Control variate | 100,000 | 0.52x | 68.5x | 133x |
+| Control variate | 1,000,000 | 0.47x | 63.9x | 135x |
+| Control variate | 10,000,000 | 0.47x | 63.6x | 135x |
+| Antithetic + control variate | 100,000 | 0.58x | 62.2x | 107x |
+| Antithetic + control variate | 1,000,000 | 0.54x | 61.0x | 113x |
+| Antithetic + control variate | 10,000,000 | 0.53x | 61.6x | 116x |
